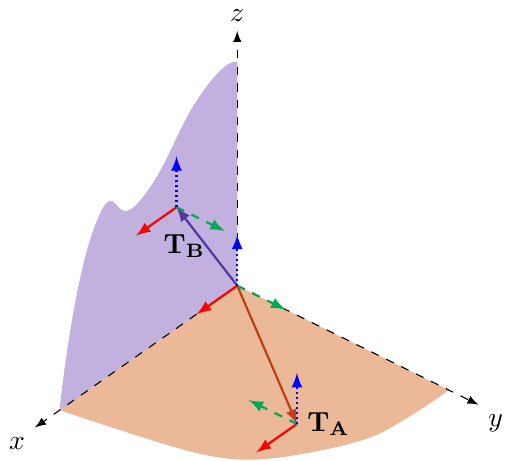
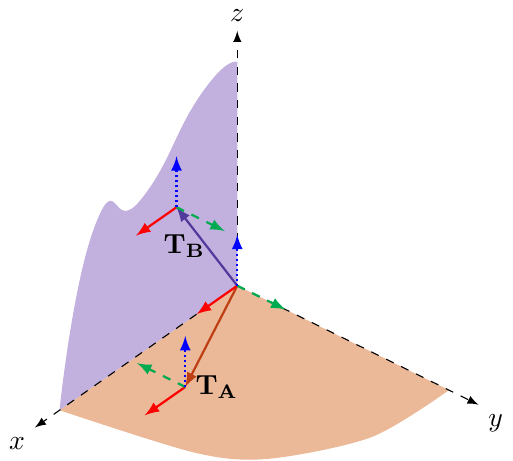
Update all non-orientable figures. Make non-orientable figures consistent with constraints and with each other. All non-orientable figures now use the same set of parameters to better show the relations amonst them. They all satifies constraints on the parameters we have imposed. Perpendicular lines

diff --git a/E9/E9.tex b/E9/E9.tex
@@ -55,11 +55,13 @@
 \tikzfillbetween[of=yz and yaxis] {ProcessBlue!30};
 \tikzfillbetween[of=xz and xaxis] {Violet!30};
 
-\coordinate (A) at (1.8, 2.5, 0);
+% Copied from E7 and modified y component of C, as required.
+\coordinate (A) at (2.1, 0.9, 0);
 \coordinate (B) at (0, 2.6, 0);
-\coordinate (C) at (2.8, 1.3, 3.2);
-\coordinate (D) at (2.8, 1.3, 0);
+\coordinate (C) at (1.2, 1.3, 1.9);
+\coordinate (D) at (1.2, 1.3, 0);
 \coordinate (E) at (0, 1.3, 0);
+\coordinate (F) at (1.2, 0, 0);
 
 \path (O) + (\smallvecx, 0, 0) coordinate (O1);
 \path (O) + (0, \smallvecx, 0) coordinate (O2);
@@ -102,9 +104,9 @@
 	anchor=south west, xshift=-1pt, yshift=-4pt
 ]{\textcolor{black}{\(\mathbf{T_{B_{2}}}\)}};
 
-\draw[vector help] (O) -- (D);
 \draw[vector help] (C) -- (D);
 \draw[vector help] (D) -- (E);
+\draw[vector help] (D) -- (F);
 
 \draw[vector guide, arrowred] (O) -- (O1);
 \draw[vector guide, dashed, arrowgreen] (O) -- (O2);

diff --git a/E10/E10.tex b/E10/E10.tex
@@ -55,11 +55,13 @@
 \tikzfillbetween[of=yz and yaxis] {ProcessBlue!30};
 \tikzfillbetween[of=xz and xaxis] {Violet!30};
 
-\coordinate (A) at (1.8, 2.5, 0);
+% Copied from E9.
+\coordinate (A) at (2.1, 0.9, 0);
 \coordinate (B) at (0, 2.6, 0);
-\coordinate (C) at (2.8, 1.3, 3.2);
-\coordinate (D) at (2.8, 1.3, 0);
+\coordinate (C) at (1.2, 1.3, 1.9);
+\coordinate (D) at (1.2, 1.3, 0);
 \coordinate (E) at (0, 1.3, 0);
+\coordinate (F) at (1.2, 0, 0);
 
 \path (O) + (\smallvecx, 0, 0) coordinate (O1);
 \path (O) + (0, \smallvecx, 0) coordinate (O2);
@@ -102,9 +104,9 @@
 	anchor=north east, xshift=2pt, yshift=4pt
 ]{\textcolor{black}{\(\mathbf{T_{B}}\)}};
 
-\draw[vector help] (O) -- (D);
 \draw[vector help] (C) -- (D);
 \draw[vector help] (D) -- (E);
+\draw[vector help] (D) -- (F);
 
 \draw[vector guide, arrowred] (O) -- (O1);
 \draw[vector guide, dashed, arrowgreen] (O) -- (O2);

diff --git a/E15/E15.tex b/E15/E15.tex
@@ -48,9 +48,11 @@
 \tikzfillbetween[of=xy and xaxis] {Bittersweet!30};
 \tikzfillbetween[of=xz and xaxis] {Violet!30};
 
-\coordinate (A) at (1.8, 2.5, 0);
+% Copied from E8
+\coordinate (A) at (2.1, 0.9, 0);
 \coordinate (B) at (0, 2.6, 0);
 \coordinate (C) at (1.2, 0, 1.9);
+
 
 \path (O) + (\smallvecx, 0, 0) coordinate (O1);
 \path (O) + (0, \smallvecx, 0) coordinate (O2);

diff --git a/E8/E8.tex b/E8/E8.tex
@@ -55,9 +55,11 @@
 \tikzfillbetween[of=yz and yaxis] {ProcessBlue!30};
 \tikzfillbetween[of=xz and xaxis] {Violet!30};
 
-\coordinate (A) at (1.8, 2.5, 0);
+% Copied from E7
+\coordinate (A) at (2.1, 0.9, 0);
 \coordinate (B) at (0, 2.6, 0);
 \coordinate (C) at (1.2, 0, 1.9);
+
 
 \path (O) + (\smallvecx, 0, 0) coordinate (O1);
 \path (O) + (0, \smallvecx, 0) coordinate (O2);

diff --git a/E17/E17.tex b/E17/E17.tex
@@ -44,8 +44,10 @@
 
 \tikzfillbetween[of=yz and yaxis] {ProcessBlue!30};
 
+% Same as E7 with (A) coordinates copied to (B) and x <-> z.
 \coordinate (A) at (2.1, 1.4, 0);
-\coordinate (B) at (0, 1.4, 2.6);
+%\coordinate (B) at (0, 1.4, 2.6);
+\coordinate (B) at (0, 0.9, 2.1);
 \coordinate (C) at (1.9, 0, 1.1);
 
 \path (O) + (\smallvecx, 0, 0) coordinate (O1);

diff --git a/E7/E7.tex b/E7/E7.tex
@@ -55,7 +55,8 @@
 \tikzfillbetween[of=yz and yaxis] {ProcessBlue!30};
 \tikzfillbetween[of=xz and xaxis] {Violet!30};
 
-\coordinate (A) at (1.8, 2.5, 0);
+% Coordinates consistent with the minimal constraints we impose.
+\coordinate (A) at (2.1, 0.9, 0);
 \coordinate (B) at (0, 2.6, 0);
 \coordinate (C) at (1.2, 0, 1.9);
 

diff --git a/E13/E13.tex b/E13/E13.tex
@@ -57,7 +57,7 @@
 % \tikzfillbetween[of=yz and yaxis] {ProcessBlue!30};
 \tikzfillbetween[of=xz and xaxis] {Violet!30};
 
-\coordinate (A) at (1.8, 2.5, 0);
+\coordinate (A) at (2.1, 0.9, 0);
 \coordinate (B) at (0, 2.6, 0);
 \coordinate (C) at (1.2, 0, 1.9);
 

diff --git a/E14/E14.tex b/E14/E14.tex
@@ -57,7 +57,7 @@
 \tikzfillbetween[of=yz and yaxis] {ProcessBlue!30};
 % \tikzfillbetween[of=xz and xaxis] {Violet!30};
 
-\coordinate (A) at (1.8, 2.5, 0);
+\coordinate (A) at (2.1, 0.9, 0);
 \coordinate (B) at (0, 2.6, 0);
 \coordinate (C) at (1.2, 0, 1.9);
 
